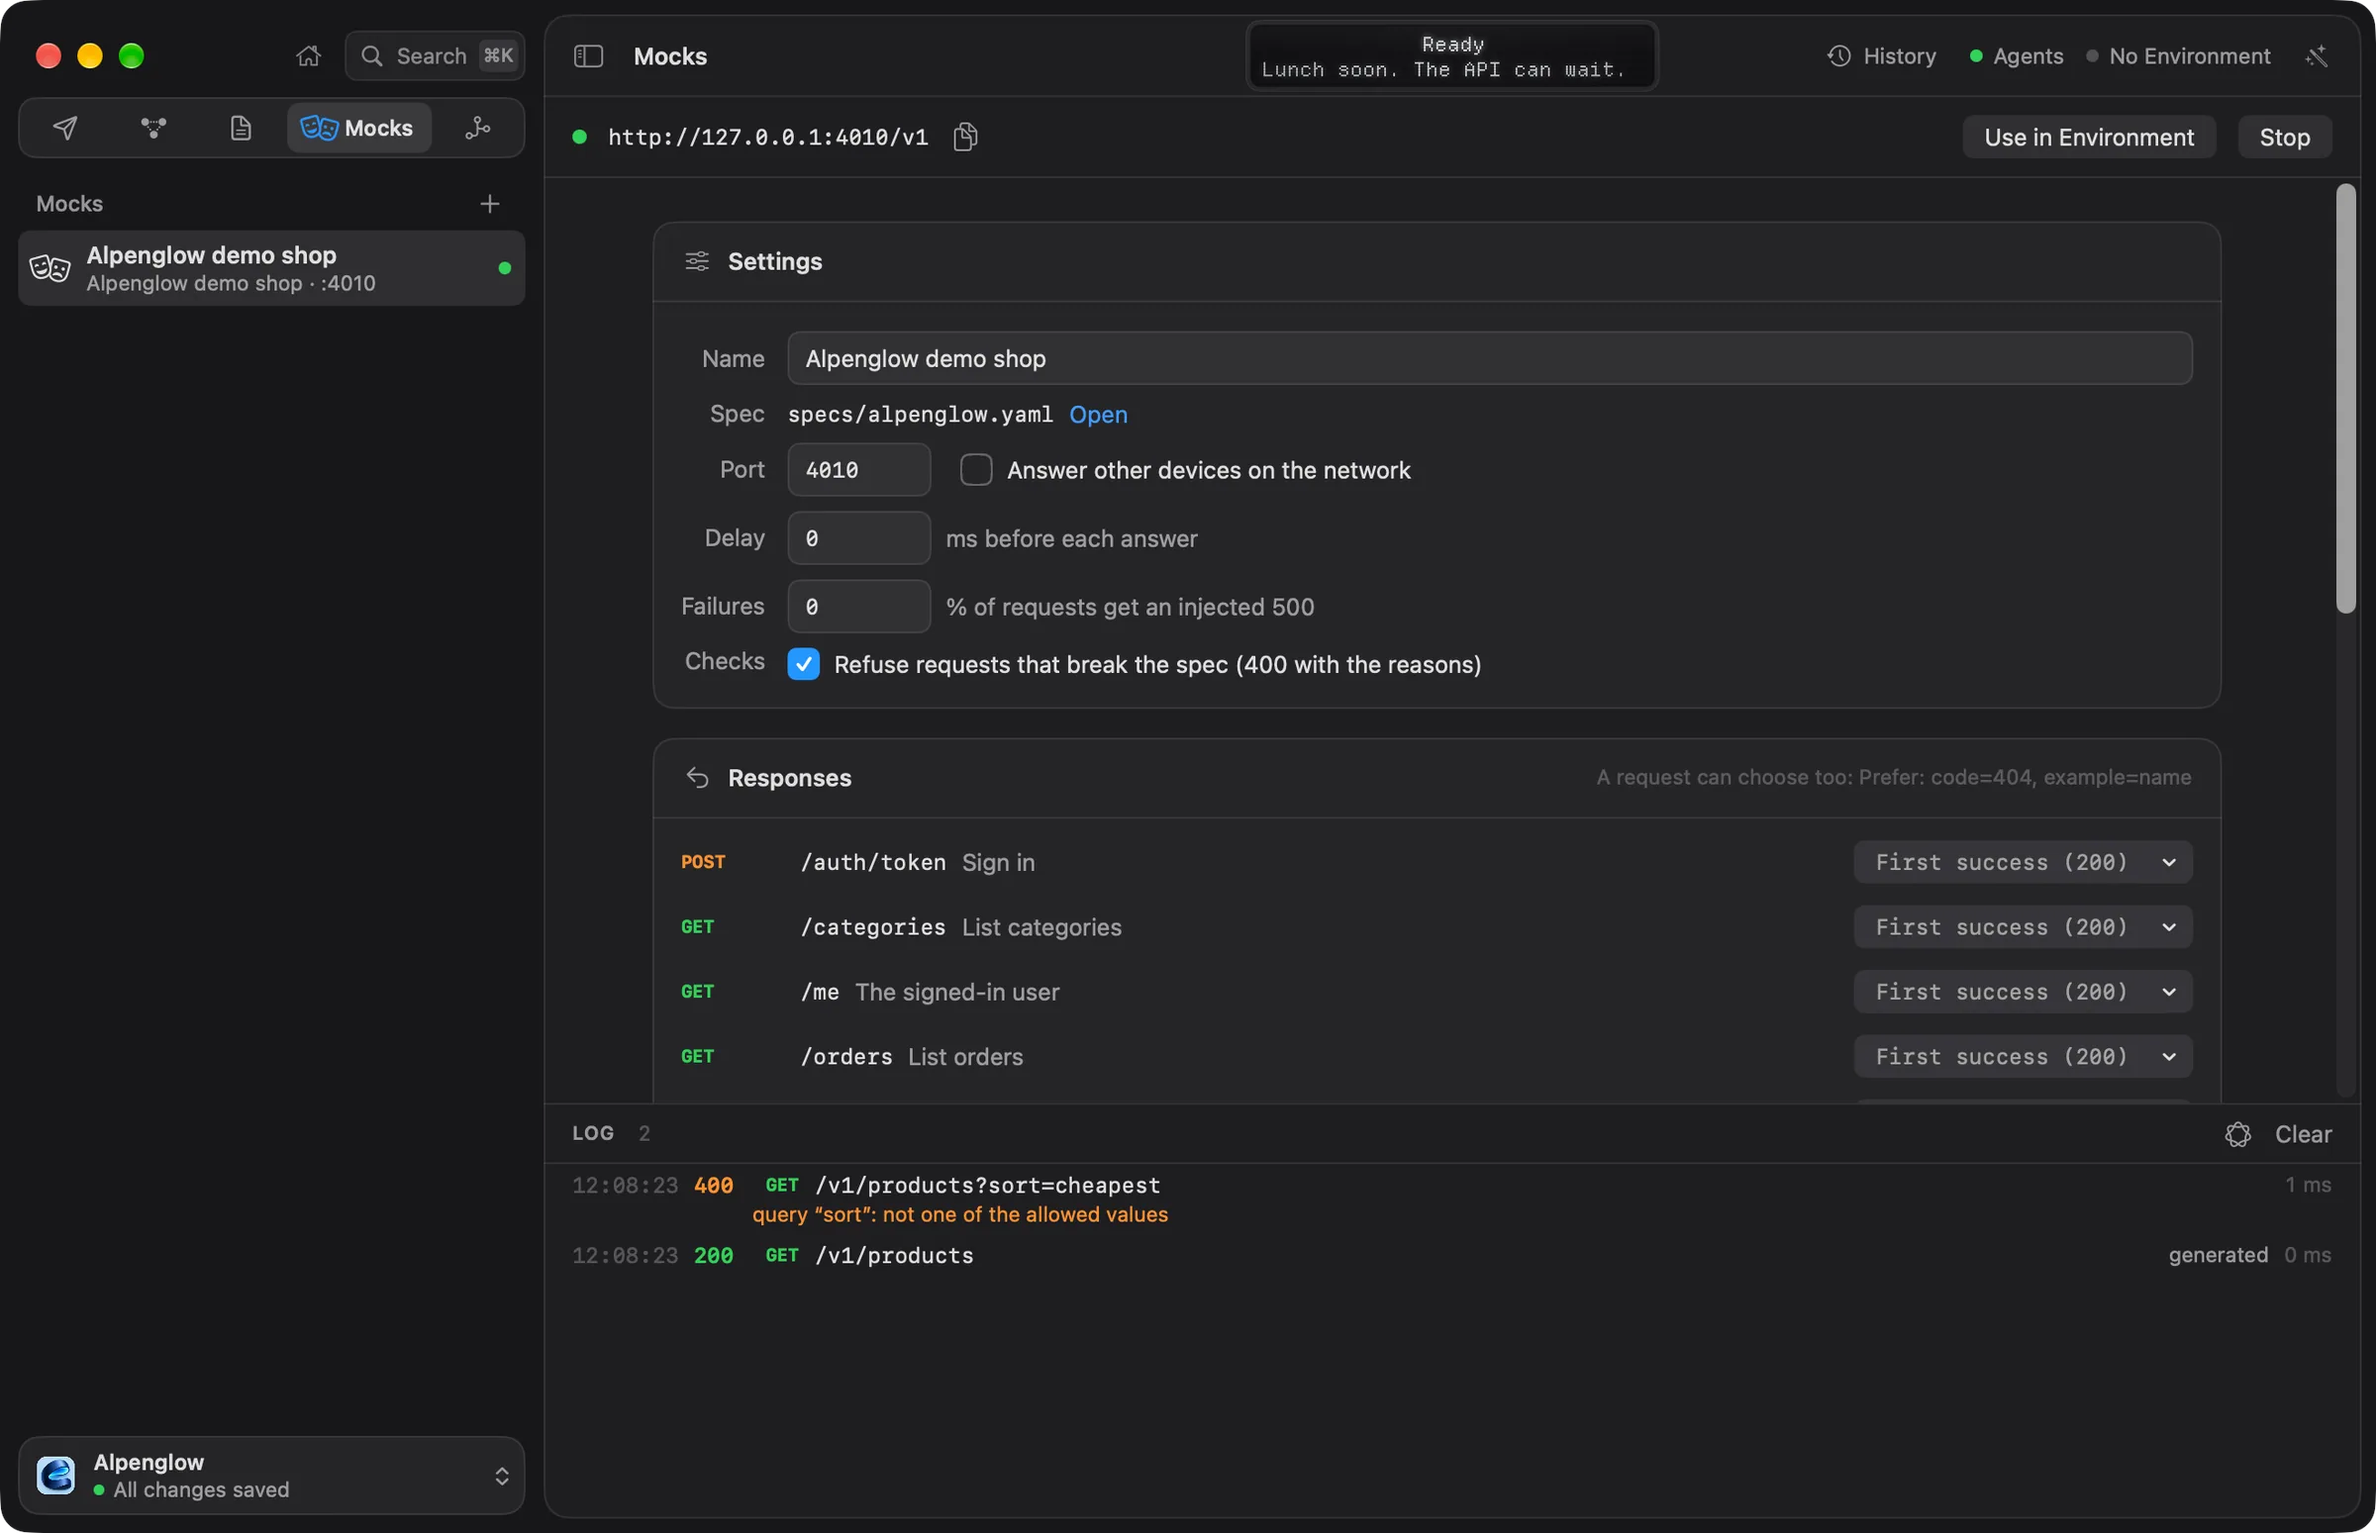
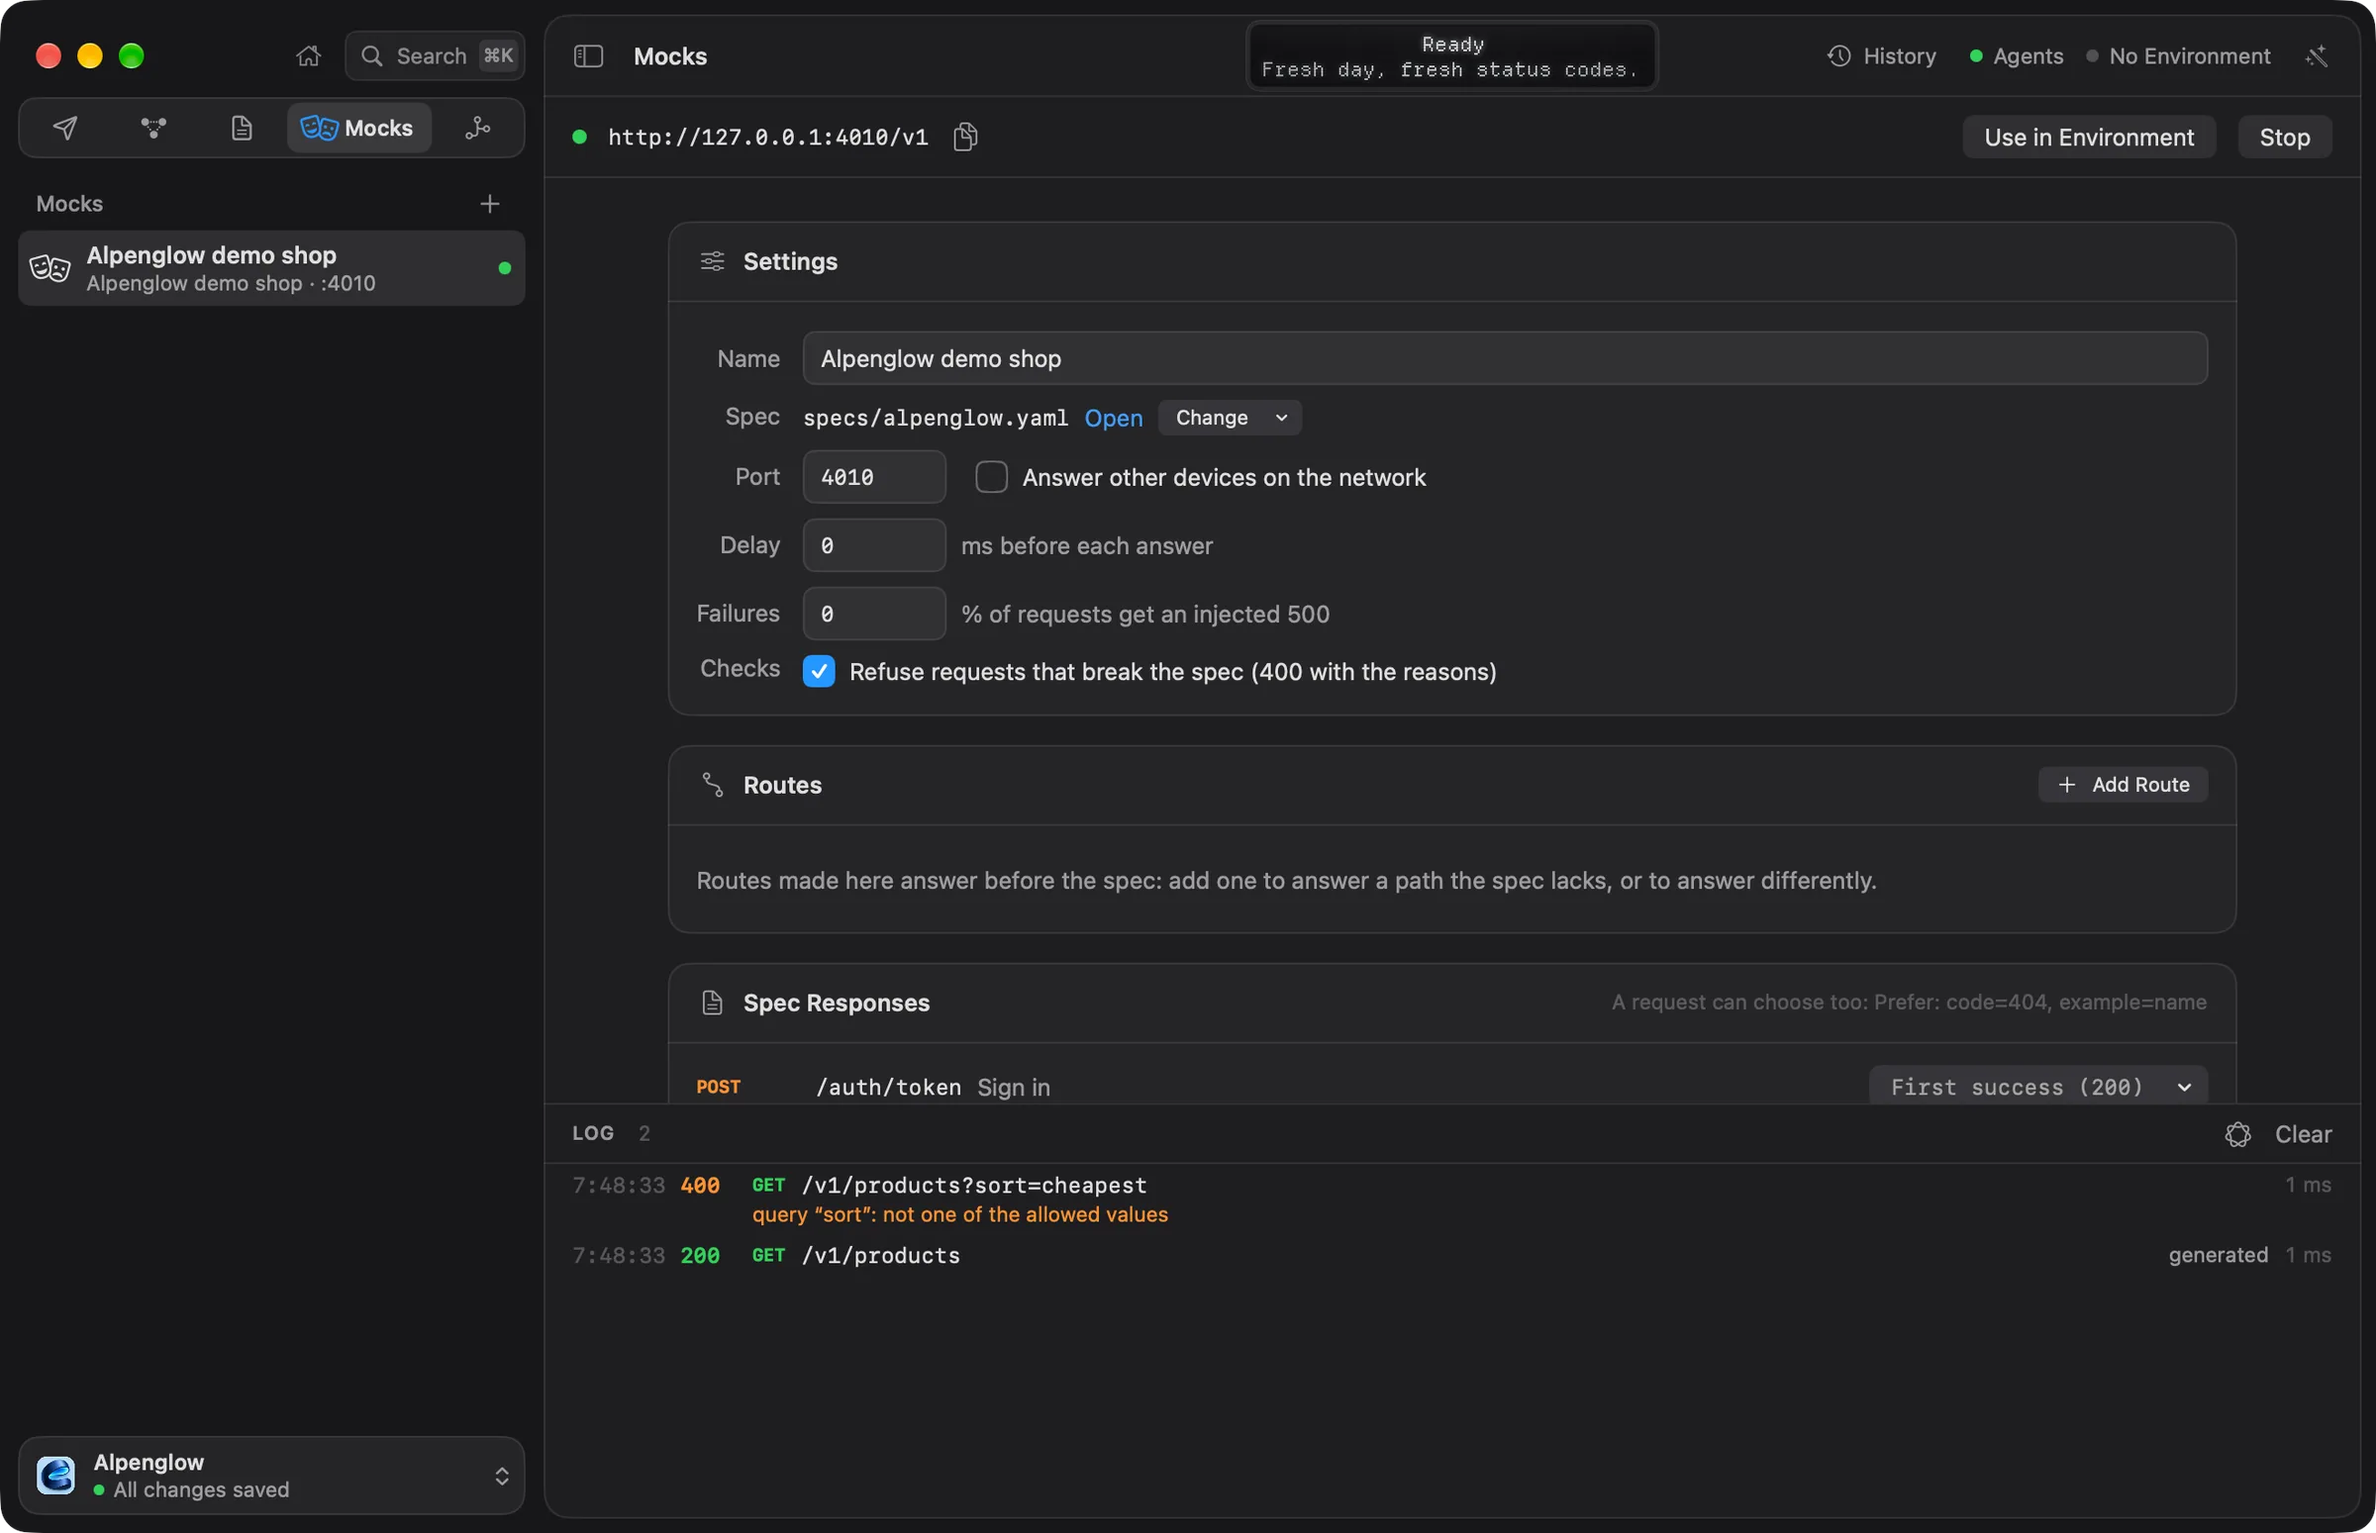
Mocks screenshots: routes made by hand, the route editor and its rules
Retakes mocks-running (a spec mock with routes), mocks-routes (Routes in
JavaScript, with the log naming the script route) and
tutorials-spec-mock-running, and adds mocks-route-editor and
mocks-route-rule to the routes page. The scenes' mock files are in
shots/scenes/mocks. tools/shots.ts writes the manifest where the site keeps
it since the move to TanStack Start (src/lib/shots.json).

diff --git a/tools/shots.ts b/tools/shots.ts
@@ -1,6 +1,6 @@
 // Turns window captures (.work/captures/<id>-light.png and -dark.png, 2x Retina) into the site's screenshots:
 // public/shots/<id>-light.webp and -dark.webp, cropped as shots/*.json says, and their size in points in
-// lib/shots.json for <Shot>.
+// src/lib/shots.json for <Shot>.
 //
 //   bun tools/shots.ts            every capture that has both appearances
 //   bun tools/shots.ts <id> …     only these
@@ -11,7 +11,7 @@ import sharp from 'sharp'
 
 const root = new URL('..', import.meta.url).pathname
 const captures = `${root}.work/captures`
-const manifestPath = `${root}lib/shots.json`
+const manifestPath = `${root}src/lib/shots.json`
 
 type Request = { id: string; crop?: [number, number, number, number]; cropPx?: [number, number, number, number] }
 const requests = new Map<string, Request>()

diff --git a/shots/scenes/mocks/alpenglow-demo-shop.js b/shots/scenes/mocks/alpenglow-demo-shop.js
@@ -1,0 +1,12 @@
+let orders = []
+
+mock.post("/orders", (req, res) => {
+  const order = { id: "ord_" + (orders.length + 1), status: "pending", ...req.json() }
+  orders.push(order)
+  res.status(201).header("Location", "/v1/orders/" + order.id).json(order)
+})
+
+mock.get("/orders/:id", (req, res) => {
+  const order = orders.find(o => o.id === req.params.id)
+  return order ?? res.status(404).json({ error: "no such order" })
+})
